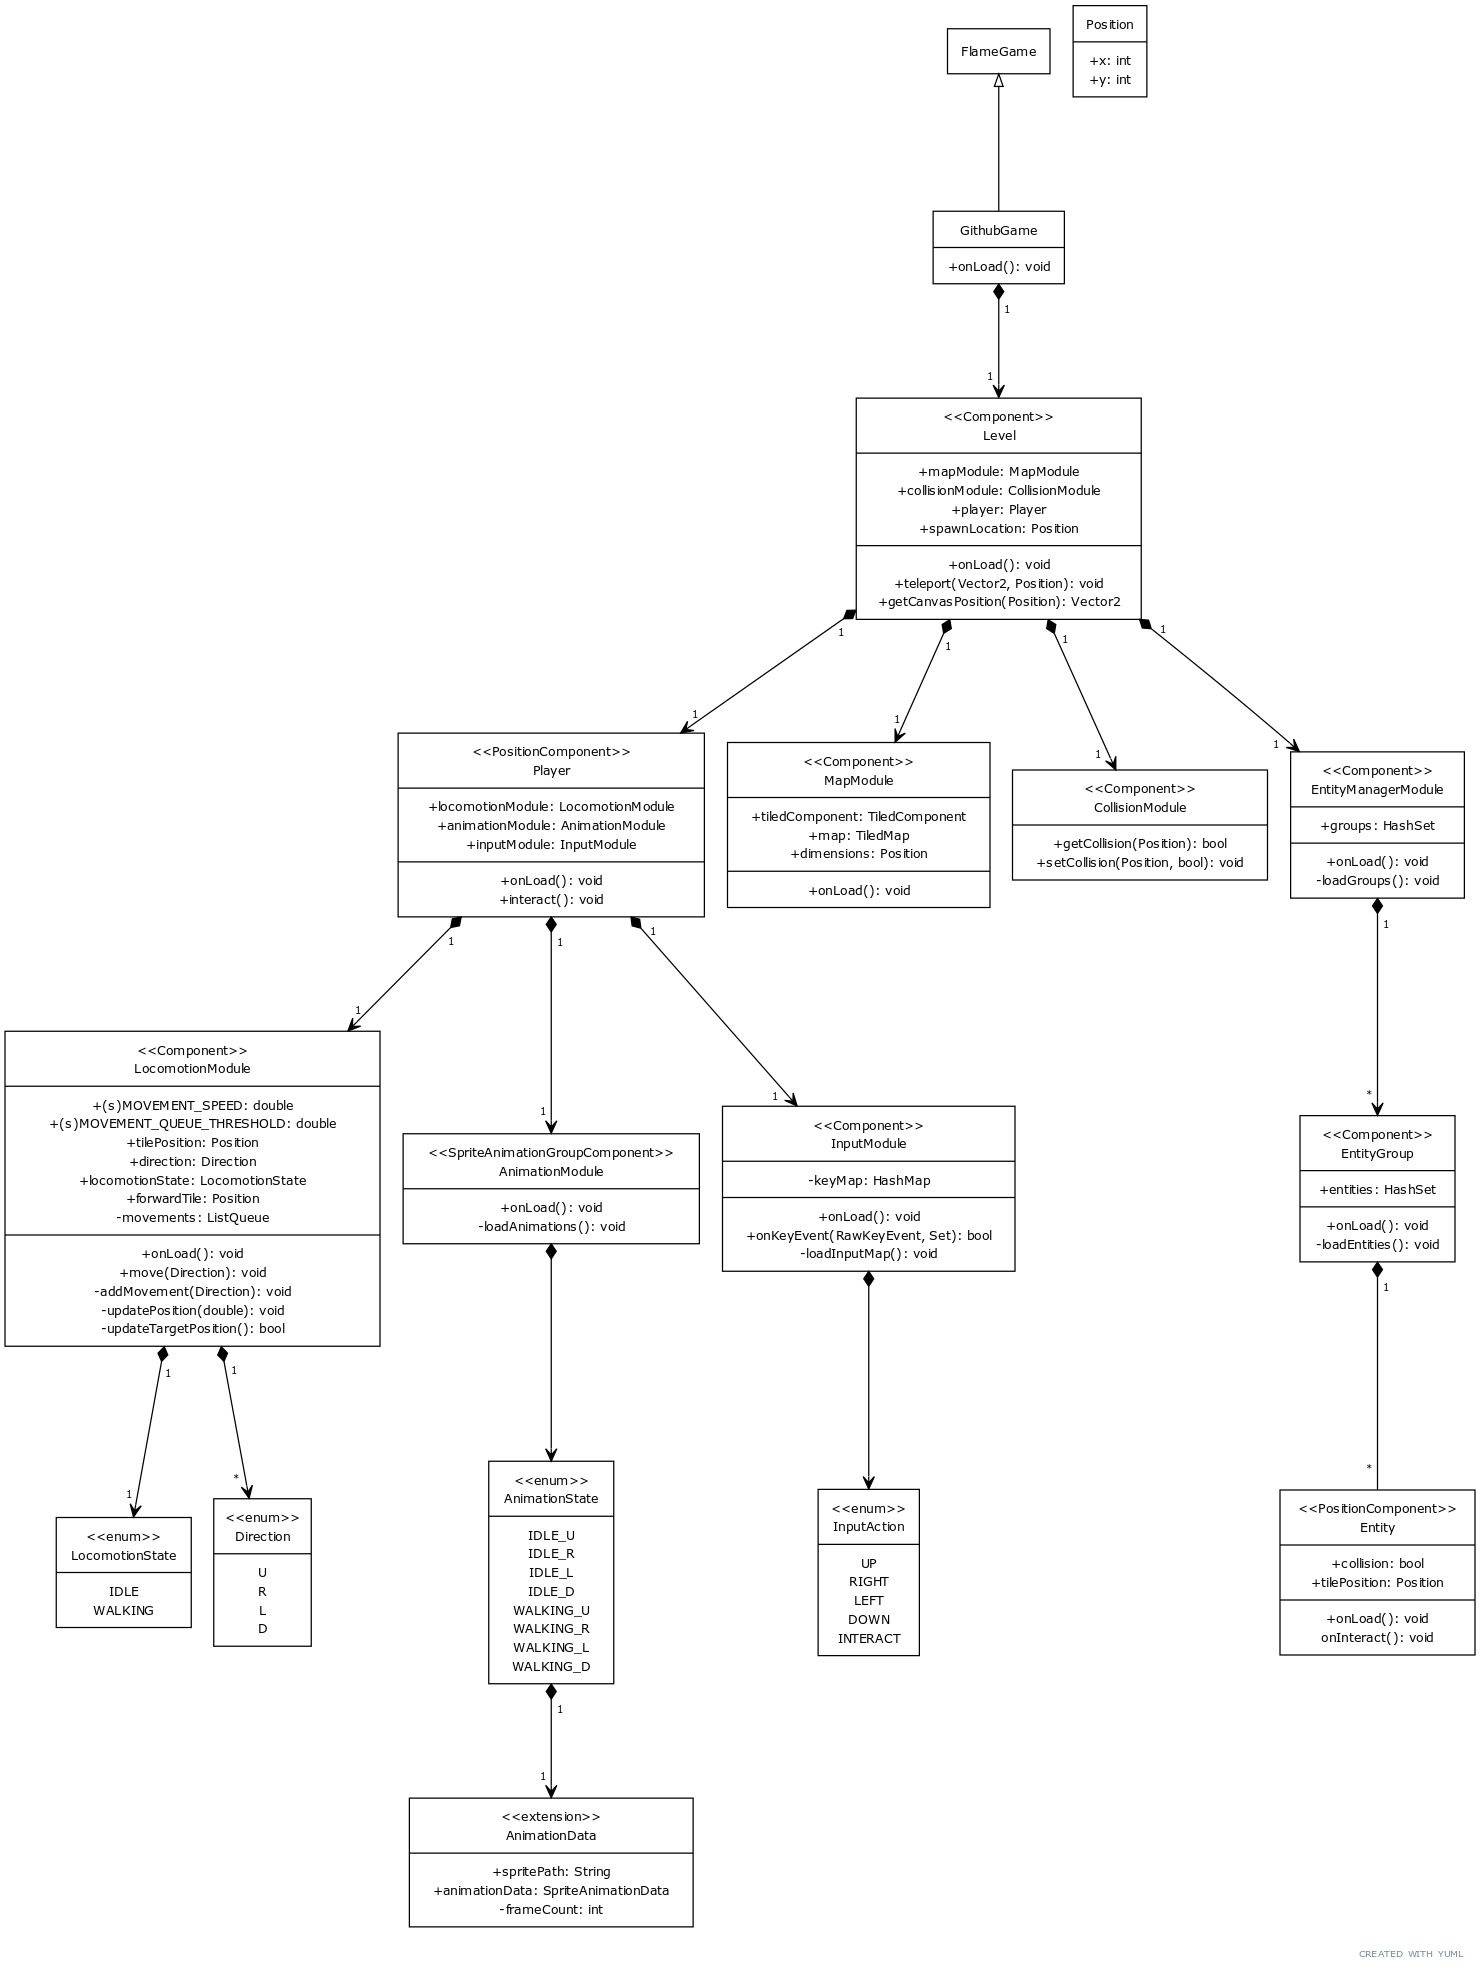
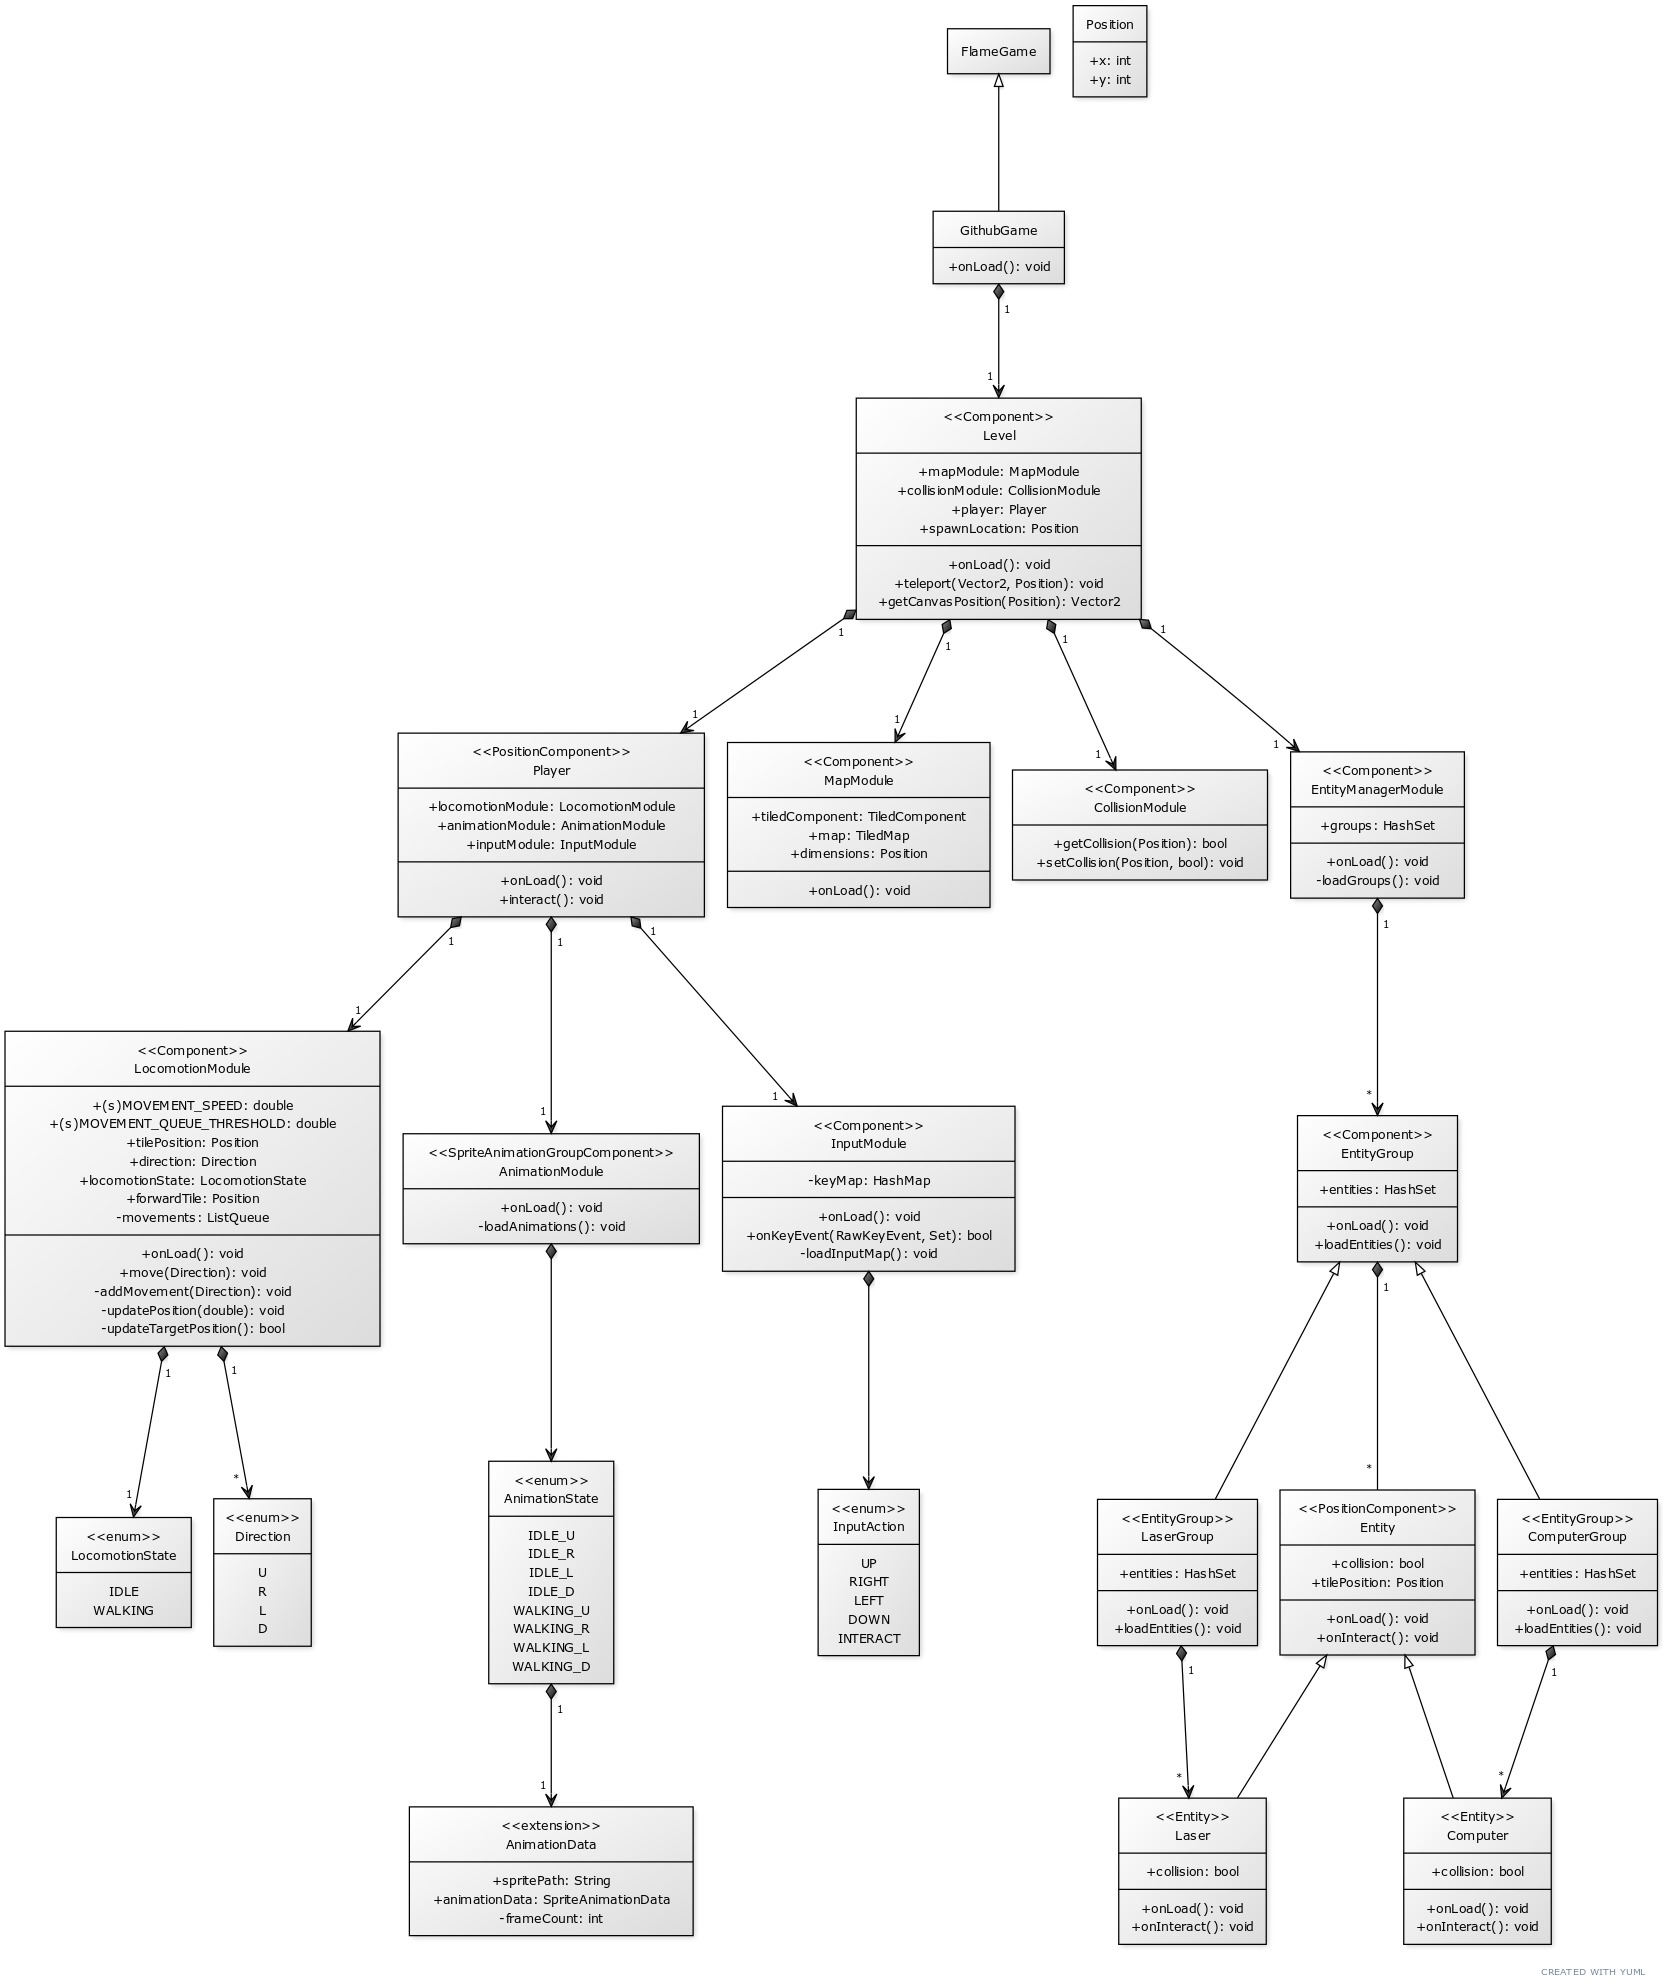
Entity classes and groups for lasers and computers.

diff --git a/lib/entity.dart b/lib/entity.dart
@@ -13,7 +13,9 @@ abstract class Entity extends PositionComponent with HasLevelRef {
   Position get tilePosition => _tilePosition;
 
   /// Returns whether or not this entity has collision.
-  bool get collision;
+  bool get collision {
+    return level.collisionModule.getCollision(tilePosition);
+  }
 
   /// Sets the collision for this entity and updates the collision module.
   set collision(bool coll) {
@@ -26,11 +28,6 @@ abstract class Entity extends PositionComponent with HasLevelRef {
   @override
   Future<void> onLoad() async {
     await super.onLoad();
-
-    // Update the collision of the level based on this entity
-    if (collision) {
-      level.collisionModule.setCollision(_tilePosition, true);
-    }
 
     // Teleport to the tile position
     level.teleport(position, _tilePosition);

diff --git a/lib/entities/entity_group.dart b/lib/entities/entity_group.dart
@@ -4,7 +4,8 @@ import 'package:github_game/entity.dart';
 import 'package:github_game/mixins/has_level_ref.dart';
 
 /// This is a group of entity components.
-class EntityGroup<T extends Entity> extends Component with HasLevelRef {
+abstract class EntityGroup<T extends Entity> extends Component
+    with HasLevelRef {
   /// Set of all entities in this group
   late final HashSet<T> _entities;
 
@@ -17,10 +18,10 @@ class EntityGroup<T extends Entity> extends Component with HasLevelRef {
   @override
   Future<void> onLoad() async {
     await super.onLoad();
-    _loadEntities();
+    loadEntities();
     addAll(_entities);
   }
 
   /// Loads all entities in this group.
-  void _loadEntities() {}
+  void loadEntities();
 }

diff --git a/lib/modules/level/collision_module.dart b/lib/modules/level/collision_module.dart
@@ -16,7 +16,11 @@ class CollisionModule extends Component with HasLevelRef {
     final MapModule mapModule = level.mapModule;
     return mapModule.tiledComponent.tileMap
             .getTileData(
-                layerId: mapModule.map.layerByName("Collision").id ?? 0,
+                layerId: mapModule.map.layerByName("Collision").id ??
+                    () {
+                      throw StateError(
+                          "This tile map does not have a layer titled 'Collision'");
+                    }.call(),
                 x: tilePosition.x,
                 y: tilePosition.y)
             ?.tile !=

diff --git a/lib/entities/individuals/computer.dart b/lib/entities/individuals/computer.dart
@@ -1,0 +1,18 @@
+import 'package:github_game/entity.dart';
+import 'package:github_game/level.dart';
+
+class Computer extends Entity {
+  Computer(Position tilePosition) : super(tilePosition);
+
+  @override
+  Future<void> onLoad() async {
+    await super.onLoad();
+
+    collision = false;
+  }
+
+  @override
+  void onInteract() {
+    print("Interacted with computer at ($tilePosition)");
+  }
+}

diff --git a/lib/entities/individuals/laser.dart b/lib/entities/individuals/laser.dart
@@ -1,0 +1,18 @@
+import 'package:github_game/entity.dart';
+import 'package:github_game/level.dart';
+
+class Laser extends Entity {
+  Laser(Position tilePosition) : super(tilePosition);
+
+  @override
+  Future<void> onLoad() async {
+    await super.onLoad();
+
+    collision = true;
+  }
+
+  @override
+  void onInteract() {
+    print("Interacted with laser at ($tilePosition)");
+  }
+}

diff --git a/lib/entities/groups/computer_group.dart b/lib/entities/groups/computer_group.dart
@@ -1,0 +1,7 @@
+import 'package:github_game/entities/entity_group.dart';
+import 'package:github_game/entities/individuals/computer.dart';
+
+class ComputerGroup extends EntityGroup<Computer> {
+  @override
+  void loadEntities() {}
+}

diff --git a/lib/entities/groups/laser_group.dart b/lib/entities/groups/laser_group.dart
@@ -1,0 +1,7 @@
+import 'package:github_game/entities/entity_group.dart';
+import 'package:github_game/entities/individuals/laser.dart';
+
+class LaserGroup extends EntityGroup<Laser> {
+  @override
+  void loadEntities() {}
+}
